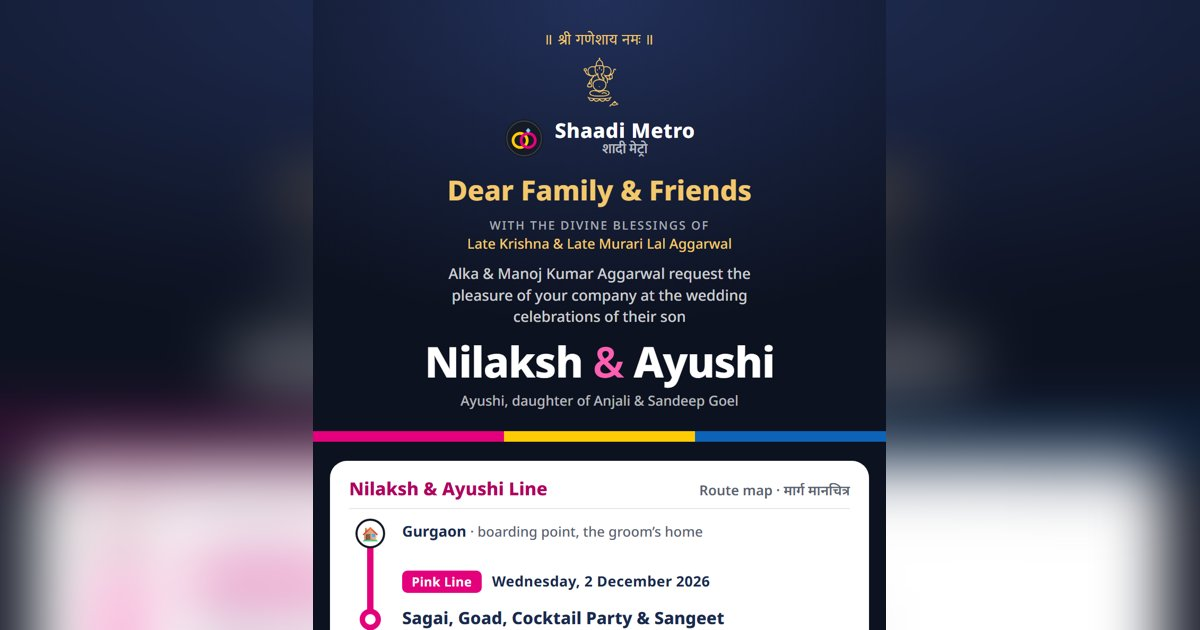
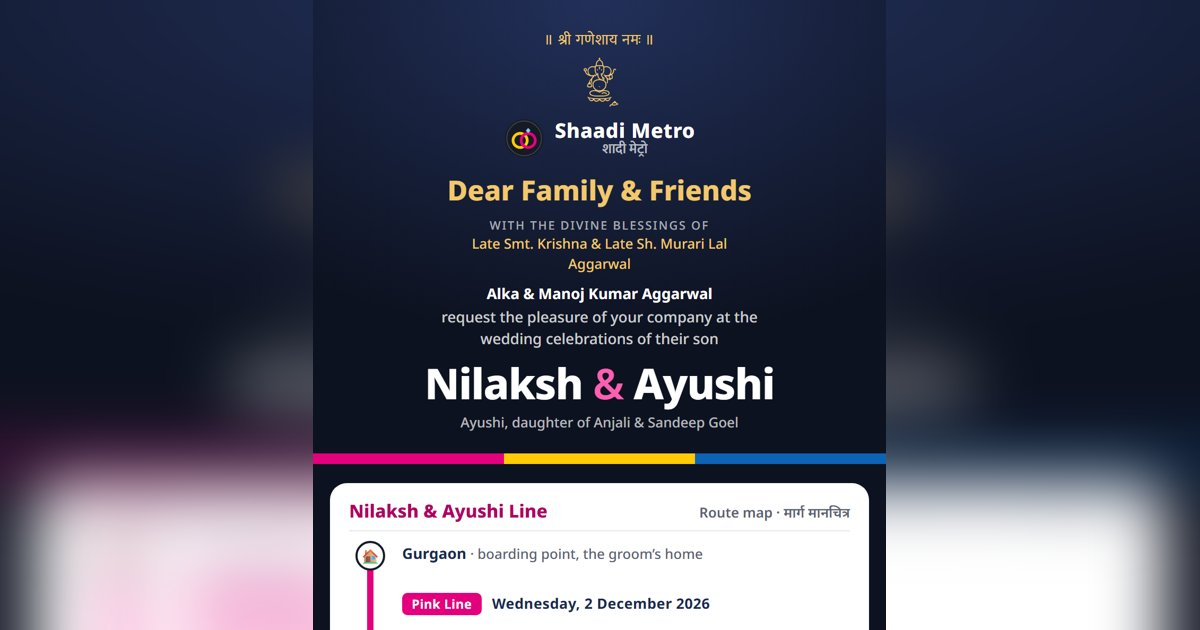
Add Hindi card (patrika)

Changed region(s): [[0.0, 0.3619, 0.9867, 1.0]]

diff --git a/data.js b/data.js
@@ -7,32 +7,32 @@ window.INVITE_LOCKED = {
  "salt": "nilaksh-ayushi/v1/",
  "boxes": [
   {
-   "iv": "AjEYRPLG67MxQ4hd",
[1 lines of base64/hex data omitted]
+   "iv": "Pv/sz3zEu7KYMtNa",
[1 lines of base64/hex data omitted]
   },
   {
-   "iv": "zLSYlUw1r5R7BfIA",
[1 lines of base64/hex data omitted]
+   "iv": "jj01mKISIpt8KPBZ",
[1 lines of base64/hex data omitted]
   },
   {
-   "iv": "qdtOhOFk423TJAWz",
[1 lines of base64/hex data omitted]
+   "iv": "YXLzZ/59/08w85Zr",
[1 lines of base64/hex data omitted]
   },
   {
-   "iv": "p8wsyf9G6BLAtV76",
[1 lines of base64/hex data omitted]
+   "iv": "Nr2egnKnHhRR5Pr/",
[1 lines of base64/hex data omitted]
   },
   {
-   "iv": "Ty3jakn5VfRUb+j0",
[1 lines of base64/hex data omitted]
+   "iv": "NdCKERfAM0HEZ0AO",
[1 lines of base64/hex data omitted]
   },
   {
-   "iv": "ZrAYf//a/tEQbX3P",
[1 lines of base64/hex data omitted]
+   "iv": "TCAnxa3MU3eqAZ+K",
[1 lines of base64/hex data omitted]
   },
   {
-   "iv": "M2tRCrF6f04vjnBi",
[1 lines of base64/hex data omitted]
+   "iv": "mut4Rt+uk4D1cYdC",
[1 lines of base64/hex data omitted]
   }
  ]
 };

diff --git a/46a7779f-df44-48ce-9c27-7e7e5a7a9db2/index.html b/46a7779f-df44-48ce-9c27-7e7e5a7a9db2/index.html
@@ -101,7 +101,7 @@
       <div>
         <label class="field-label" for="variant">3 · E-card</label>
         <select id="variant"></select>
-        <p class="hint" style="margin-top:6px">Each group has its own e-card. Change this only to send a different one.</p>
+        <p class="hint" style="margin-top:6px">Each group has its own e-card. Change this only to send a different one. For guests who read Hindi more easily, pick <b>Hindi Card</b>: the card and the WhatsApp message switch to Hindi.</p>
       </div>
       <div style="display:grid;gap:8px">
         <span class="field-label">4 · Share</span>
@@ -151,7 +151,7 @@
    (PBKDF2-SHA256) by scripts/build_site.py. Nothing readable is published. */
 (function () {
   'use strict';
[2 lines of base64/hex data omitted]
   const b64 = s => Uint8Array.from(atob(s), c => c.charCodeAt(0));
   const store = {
     get: () => { try { return localStorage.getItem('studio.pw'); } catch (e) { return null; } },
@@ -245,7 +245,32 @@
     return S.base.split('?')[0].replace(/[^/]*$/, '') + (S.variant || g.variant) + '?' + q.toString().replace(/\+/g, '%20');
   }
 
+  // The Hindi card (patrika) gets a Hindi message too.
+  function messageHi(link) {
+    const g = group(), ctx = I.buildCtx({ code: g.code, guest: S.to.trim() });
+    const H = D.PEOPLE.hi, occ = ctx.occasion;
+    const lines = ctx.events.map(e => `• ${I.hindi.date(e.date, true)}, ${I.hindi.time(e)} · ${e.hi || e.name}`);
+    const what = {
+      wedding: 'के शुभ विवाह समारोह में', engagement: 'के सगाई एवं संगीत समारोह में', haldi: 'के हल्दी एवं भात समारोह में',
+      mehandi: 'के मेहंदी एवं गीत समारोह में', sunderkand: 'के शुभ विवाह से पूर्व श्री सुंदरकांड पाठ में',
+    }[occ.key];
+    return [
+      occ.key === 'sunderkand' ? '🙏 जय श्री राम!' : '🙏 जय श्री गणेश!',
+      '',
+      ctx.guest ? `आदरणीय ${ctx.guest},` : 'आदरणीय परिवारजन एवं मित्रगण,',
+      '',
+      `${H.family} आपको ${H.groom} संग ${H.bride} ${what} सादर आमंत्रित करता है।`,
+      '',
+      ...lines,
+      '',
+      link ? `अपना निमंत्रण पत्र खोलने के लिए नीचे दिए लिंक को छुएँ 👇\n${link}` : '(Add the hosted invite address in the studio to get the link.)',
+      '',
+      `सप्रेम,\n${H.hosts}`,
+    ].join('\n');
+  }
+
   function message(link) {
+    if ((S.variant || group().variant) === 'patrika') return messageHi(link);
     const g = group(), ctx = I.buildCtx({ code: g.code, guest: S.to.trim() });
     const P = D.PEOPLE, occ = ctx.occasion;
     const lines = ctx.events.map(e => `• ${e.dateShort}, ${e.time} · ${shortName(e)}`);
@@ -285,7 +310,7 @@
     $('wa').href = 'https://api.whatsapp.com/send?text=' + encodeURIComponent(msg);
     const cardUrl = ONLINE ? (link || 'about:blank') : query(localInvite);
     $('open').href = cardUrl;
-    $('png').href = `cards/group-${g.n}-${g.slug}.png`;
+    $('png').href = `cards/${(S.variant || g.variant) === 'patrika' ? 'hindi/' : ''}group-${g.n}-${g.slug}.png`;
     $('png').hidden = ONLINE;
 
     clearTimeout(reloadTimer);

diff --git a/variants/patrika.js b/variants/patrika.js
@@ -1,0 +1,110 @@
+/* Patrika — the Hindi card. Everything in Devanagari, large type, no game: for guests who find Roman script
+   hard to read. Works for every group (send with ?t=patrika or the /patrika page). Hindi wording comes from
+   the hi / noteHi / spotHi / dressHi fields in data.js; when one is missing the English text is shown. */
+(function () {
+  'use strict';
+  // What follows "<groom> संग <bride>" in the invitation sentence, per occasion (see occasionFor in core.js).
+  const LINE = {
+    wedding: 'के शुभ विवाह के पावन अवसर पर आपको सादर आमंत्रित करते हैं।',
+    engagement: 'की सगाई एवं संगीत संध्या में आपको सादर आमंत्रित करते हैं।',
+    haldi: 'के शुभ विवाह के उपलक्ष्य में हल्दी एवं भात की रस्मों में आपको सादर आमंत्रित करते हैं।',
+    mehandi: 'के शुभ विवाह के उपलक्ष्य में मेहंदी एवं गीत में आपको सादर आमंत्रित करते हैं।',
+    sunderkand: 'के शुभ विवाह से पूर्व, हनुमान जी के आशीर्वाद हेतु श्री सुंदरकांड पाठ में आपको सादर आमंत्रित करते हैं।',
+  };
+
+  // A marigold toran (garland) for the top edge of the card.
+  function toran() {
+    const n = 11, w = 540, step = w / n;
+    let s = '';
+    for (let i = 0; i < n; i++) {
+      const x = step * i + step / 2, drop = i % 2 ? 34 : 50;
+      s += `<path d="M${x - step / 2} 6 Q${x} 26 ${x + step / 2} 6" class="pk-rope"/>`;
+      s += `<line x1="${x}" y1="16" x2="${x}" y2="${drop - 8}" class="pk-rope"/>`;
+      s += `<circle cx="${x}" cy="${drop - 10}" r="5.5" class="pk-mg2"/><circle cx="${x}" cy="${drop}" r="7.5" class="pk-mg${i % 2 ? 1 : 3}"/>`;
+      s += `<path d="M${x - 9} ${drop + 5} q9 12 18 0 q-9 4 -18 0Z" class="pk-leaf"/>`;
+    }
+    return `<svg class="pk-toran" viewBox="0 0 ${w} 66" preserveAspectRatio="none" aria-hidden="true">${s}</svg>`;
+  }
+
+  Invite.register('patrika', {
+    render(root, ctx) {
+      const esc = ctx.esc, P = ctx.P, H = P.hi || {}, T = ctx.T;
+      const hi = (k) => esc(H[k] || P[k]);
+      const isSk = ctx.occasion.key === 'sunderkand';
+      document.documentElement.lang = 'hi';
+      if (ctx.guest) document.title = `${H.groom || P.groom} संग ${H.bride || P.bride} · ${ctx.guest} के लिए`;
+
+      const days = ctx.days.map(d => `
+        <section class="pk-day pk-in">
+          <h3 class="pk-date">${esc(Invite.hindi.date(d.date))}</h3>
+          ${d.events.map(e => `
+            <div class="pk-ev">
+              <p class="pk-ev-name">${esc(e.hi || e.name)}</p>
+              <p class="pk-ev-time"><span aria-hidden="true">🕰</span> ${esc(Invite.hindi.time(e))}</p>
+              ${e.note ? `<p class="pk-ev-note">${esc(e.noteHi || e.note)}</p>` : ''}
+              <p class="pk-ev-place"><span aria-hidden="true">📍</span> ${esc(Invite.hindi.place(e))}</p>
+              ${e.dress ? `<p class="pk-ev-note">वेशभूषा: ${esc(e.dressHi || e.dress)}</p>` : ''}
+              ${ctx.isStatic ? '' : ctx.directionsHTML(e, 'रास्ता देखें (नक्शा)')}
+            </div>`).join('')}
+        </section>`).join('');
+
+      root.innerHTML = `
+        <div class="pk-root${ctx.isStatic || ctx.reducedMotion ? ' is-still' : ''}">
+          ${toran()}
+          <article class="pk-card">
+            <span class="pk-corner pk-tl"></span><span class="pk-corner pk-tr"></span>
+            <span class="pk-corner pk-bl"></span><span class="pk-corner pk-br"></span>
+
+            <div class="pk-in">${Invite.ganeshBlockHTML({ size: 64, stroke: 2.2 })}</div>
+            <p class="pk-shloka pk-in" lang="sa">${esc(isSk ? T.sunderkand : T.ganesh).replace(/\n/g, '<br>')}</p>
+            ${isSk ? `<div class="pk-in pk-art">${Invite.art.hanuman({ size: 70, stroke: 2 })}</div>` : ''}
+
+            <div class="pk-rule pk-in" aria-hidden="true"><span>❁</span></div>
+
+            <p class="pk-kicker pk-in">सादर आमंत्रण</p>
+            <p class="pk-greet pk-in">${ctx.guest ? esc(ctx.guest) : 'प्रिय परिवारजन एवं मित्रगण'}</p>
+            <h1 class="pk-title pk-in">${esc(ctx.occasion.titleHi)}</h1>
+
+            <div class="pk-invite pk-in">
+              <p class="pk-bless">${hi('blessings')}<br><span>के आशीर्वाद से</span></p>
+              <p class="pk-hosts">${hi('groomParents')}</p>
+              <p class="pk-lead">अपने सुपुत्र</p>
+              <h2 class="pk-couple">
+                <span>चि. ${hi('groom')}</span>
+                <em>संग</em>
+                <span>सौ.कां. ${hi('bride')}</span>
+              </h2>
+              <p class="pk-bride">सुपुत्री ${hi('brideParents')}</p>
+              <p class="pk-line">${esc(LINE[ctx.occasion.key])}</p>
+            </div>
+
+            <div class="pk-rule pk-in" aria-hidden="true"><span>❁</span></div>
+            <p class="pk-kicker pk-in">कार्यक्रम</p>
+            ${days}
+            ${ctx.isStatic ? '' : `<div class="pk-actions pk-in">${ctx.calendarButtonHTML('कैलेंडर में जोड़ें')}</div>`}
+
+            <footer class="pk-foot pk-in">
+              <p class="pk-foot-k">स्वागतोत्सुक</p>
+              <p class="pk-foot-hosts">${hi('hosts')}</p>
+              <p class="pk-foot-addr">${hi('address')}</p>
+              <p class="pk-phones">${P.phones.map(p => `<a class="pk-phone" href="tel:+91${esc(p)}"><span aria-hidden="true">📞</span> ${esc(p.replace(/^(\d{5})(\d{5})$/, '$1 $2'))}</a>`).join('')}</p>
+              <p class="pk-end">${isSk ? '॥ जय श्री राम ॥' : '॥ शुभमस्तु ॥'}</p>
+            </footer>
+          </article>
+        </div>`;
+
+      const done = () => ctx.ready();
+      if (document.fonts && document.fonts.ready) document.fonts.ready.then(done, done); else done();
+      if (ctx.isStatic || ctx.reducedMotion) return;
+
+      // Gentle fade-in of each block as it scrolls into view.
+      const items = root.querySelectorAll('.pk-in');
+      if (!('IntersectionObserver' in window)) { items.forEach(el => el.classList.add('is-on')); return; }
+      const io = new IntersectionObserver(list => list.forEach(x => {
+        if (x.isIntersecting) { x.target.classList.add('is-on'); io.unobserve(x.target); }
+      }), { rootMargin: '0px 0px -8% 0px' });
+      items.forEach(el => io.observe(el));
+      root.addEventListener('click', e => { if (e.target.closest('.inv-dir')) ctx.sound.play('tap'); });
+    },
+  });
+})();

diff --git a/variants/patrika.css b/variants/patrika.css
@@ -1,0 +1,102 @@
+@import url('https://fonts.googleapis.com/css2?family=Tiro+Devanagari+Hindi&family=Mukta:wght@500;600;700&display=swap');
+
+/* Patrika — Hindi card: ivory paper, maroon ink, marigold toran. Large type for easy reading.
+   Everything scoped to html.v-patrika / .pk-*. */
+html.v-patrika {
+  --pk-paper: #fff8ea;
+  --pk-ink: #3b1410;
+  --pk-maroon: #8e1b26;
+  --pk-saffron: #d86a10;
+  --pk-gold: #b8862b;
+  --pk-muted: #6d4a3c;
+  --pk-display: 'Tiro Devanagari Hindi', 'Noto Serif Devanagari', serif;
+  --pk-body: 'Mukta', 'Nirmala UI', 'Mangal', sans-serif;
+  --btn-bg: var(--pk-maroon);
+  --btn-ink: #fff;
+  --sum-accent: var(--pk-maroon);
+  background: #5c1018;
+}
+html.v-patrika body {
+  background:
+    radial-gradient(circle at 50% 0, rgba(255, 170, 60, .22), transparent 60%),
+    repeating-linear-gradient(45deg, rgba(255, 255, 255, .025) 0 2px, transparent 2px 14px),
+    #5c1018;
+  color: var(--pk-ink);
+}
+html.v-patrika .inv-sound { background: rgba(60, 10, 14, .55); }
+
+.pk-root { position: relative; padding: 0 14px 28px; font: 500 18px/1.55 var(--pk-body); }
+.pk-toran { display: block; width: calc(100% + 28px); height: 66px; margin: 0 -14px -30px; position: relative; z-index: 2; }
+.pk-rope { stroke: #2f6b2a; stroke-width: 2; fill: none; }
+.pk-mg1 { fill: #f39c12; } .pk-mg2 { fill: #c0392b; } .pk-mg3 { fill: #f7c331; }
+.pk-leaf { fill: #3f8a36; }
+
+.pk-card {
+  position: relative; background: var(--pk-paper); color: var(--pk-ink);
+  border-radius: 6px; padding: 52px 22px 30px; text-align: center;
+  box-shadow: 0 0 0 6px #fff8ea, 0 0 0 8px var(--pk-gold), 0 18px 40px -12px rgba(0, 0, 0, .55);
+  outline: 2px solid var(--pk-maroon); outline-offset: -12px;
+}
+.pk-corner { position: absolute; width: 34px; height: 34px; border: 3px solid var(--pk-saffron); }
+.pk-corner::after { content: ''; position: absolute; width: 9px; height: 9px; background: var(--pk-maroon); transform: rotate(45deg); }
+.pk-tl { top: 20px; left: 20px; border-right: 0; border-bottom: 0; border-top-left-radius: 14px; }
+.pk-tr { top: 20px; right: 20px; border-left: 0; border-bottom: 0; border-top-right-radius: 14px; }
+.pk-bl { bottom: 20px; left: 20px; border-right: 0; border-top: 0; border-bottom-left-radius: 14px; }
+.pk-br { bottom: 20px; right: 20px; border-left: 0; border-top: 0; border-bottom-right-radius: 14px; }
+.pk-tl::after, .pk-tr::after { top: 6px; } .pk-bl::after, .pk-br::after { bottom: 6px; }
+.pk-tl::after, .pk-bl::after { left: 6px; } .pk-tr::after, .pk-br::after { right: 6px; }
+
+.pk-card p, .pk-card h1, .pk-card h2, .pk-card h3 { margin: 0; }
+.pk-card .inv-ganesh { color: var(--pk-maroon); }
+.pk-card .inv-ganesh p { font: 400 22px/1.4 var(--pk-display); color: var(--pk-saffron); }
+.pk-shloka { margin-top: 14px !important; font: 400 19px/1.75 var(--pk-display); color: var(--pk-maroon); }
+.pk-art { color: var(--pk-maroon); margin-top: 10px; }
+
+.pk-rule { display: flex; align-items: center; gap: 12px; margin: 22px 8px 18px; color: var(--pk-saffron); font-size: 20px; }
+.pk-rule::before, .pk-rule::after { content: ''; flex: 1; height: 2px; background: linear-gradient(90deg, transparent, var(--pk-gold)); }
+.pk-rule::after { background: linear-gradient(270deg, transparent, var(--pk-gold)); }
+
+.pk-kicker { font: 700 17px/1.4 var(--pk-body); color: var(--pk-saffron); letter-spacing: .04em; }
+.pk-greet { margin-top: 4px !important; font: 600 22px/1.4 var(--pk-body); color: var(--pk-ink); }
+.pk-title { margin-top: 10px !important; font: 400 46px/1.25 var(--pk-display); color: var(--pk-maroon); }
+
+.pk-invite { margin-top: 14px; display: grid; gap: 8px; }
+.pk-invite p { text-wrap: balance; }
+.pk-bless { font: 600 18px/1.6 var(--pk-body); color: var(--pk-maroon); }
+.pk-bless span, .pk-lead { font-weight: 500; color: var(--pk-muted); }
+.pk-hosts { margin-top: 6px !important; font: 700 21px/1.45 var(--pk-body); color: var(--pk-maroon); }
+.pk-couple { display: flex; flex-direction: column; align-items: center; margin: 4px 0 !important; font: 400 40px/1.3 var(--pk-display); color: var(--pk-maroon); }
+.pk-couple em { font: 500 20px/1.6 var(--pk-body); font-style: normal; color: var(--pk-saffron); }
+.pk-bride { font: 600 18px/1.5 var(--pk-body); color: var(--pk-muted); }
+.pk-line { margin-top: 6px !important; font: 500 19px/1.65 var(--pk-body); color: var(--pk-ink); text-wrap: balance; }
+
+.pk-day { margin-top: 14px; border-top: 2px dashed rgba(184, 134, 43, .45); padding-top: 14px; }
+.pk-date { display: inline-block; padding: 4px 16px; border-radius: 999px; background: var(--pk-maroon); color: #fff; font: 700 18px/1.5 var(--pk-body); }
+.pk-ev { margin: 14px 0 4px; display: grid; gap: 2px; justify-items: center; }
+.pk-ev + .pk-ev { border-top: 1px solid rgba(142, 27, 38, .12); padding-top: 14px; }
+.pk-ev-name { font: 400 28px/1.35 var(--pk-display); color: var(--pk-maroon); }
+.pk-ev-time { font: 700 20px/1.5 var(--pk-body); color: var(--pk-ink); }
+.pk-ev-note { font: 600 17px/1.5 var(--pk-body); color: var(--pk-saffron); }
+.pk-ev-place { font: 500 17.5px/1.5 var(--pk-body); color: var(--pk-muted); max-width: 32ch; text-wrap: balance; }
+.pk-ev .inv-dir { margin-top: 8px; font: 600 16px/1 var(--pk-body); padding: .75em 1.2em; }
+.pk-actions { margin-top: 20px; }
+.pk-actions .inv-btn { font: 600 17px/1 var(--pk-body); padding: .8em 1.4em; }
+
+.pk-foot { margin-top: 24px; border-top: 2px dashed rgba(184, 134, 43, .45); padding-top: 18px; display: grid; gap: 4px; }
+.pk-foot-k { font: 700 17px/1.4 var(--pk-body); color: var(--pk-saffron); }
+.pk-foot-hosts { font: 700 20px/1.5 var(--pk-body); color: var(--pk-maroon); }
+.pk-foot-addr { font: 500 16.5px/1.5 var(--pk-body); color: var(--pk-muted); max-width: 30ch; margin: 0 auto !important; text-wrap: balance; }
+.pk-phones { display: flex; flex-wrap: wrap; justify-content: center; gap: 10px; margin-top: 10px !important; }
+.pk-phone { display: inline-flex; align-items: center; gap: 6px; min-height: 44px; padding: 0 16px; border: 2px solid var(--pk-maroon); border-radius: 999px; color: var(--pk-maroon); text-decoration: none; font: 700 18px/1 var(--pk-body); white-space: nowrap; }
+.pk-end { margin-top: 14px !important; font: 400 22px/1.4 var(--pk-display); color: var(--pk-saffron); }
+
+/* Fade-in (live page only; the image card and reduced motion show everything at once). */
+.pk-root:not(.is-still) .pk-in { opacity: 0; transform: translateY(14px); transition: opacity .7s ease, transform .7s ease; }
+.pk-root:not(.is-still) .pk-in.is-on { opacity: 1; transform: none; }
+
+@media (max-width: 380px) {
+  .pk-card { padding: 48px 16px 28px; }
+  .pk-title { font-size: 40px; }
+  .pk-couple { font-size: 34px; }
+  .pk-ev-name { font-size: 25px; }
+}

diff --git a/core.js b/core.js
@@ -30,6 +30,7 @@
                       { heading: false } to omit the couple header, { footer: false } to omit the host footer.
      ctx.calendarButtonHTML(label?) one button that downloads an .ics with all the guest's events
      ctx.directionsHTML(ev, label?) an <a> to the venue's map
+     Invite.hindi.date(iso, short?) / .time(ev) / .place(ev)  Hindi date, time and place (data.js hi fields)
      Invite.art.ganesh({size, className, stroke}) / Invite.art.hanuman(...)  minimal line-art doodle SVG
                       (stroke = currentColor, so it takes the text colour). Invite.ganeshBlockHTML(opts) =
                       '॥ श्री गणेशाय नमः ॥' with the Ganesh doodle under it (class inv-ganesh).
@@ -279,6 +280,31 @@
     return `<div class="inv-ganesh"><p lang="hi">${esc(D.TEXT.ganeshShort)}</p>${art.ganesh(opts)}</div>`;
   }
 
+  /* ---------- Hindi wording (the patrika card and the studio's Hindi message) ---------- */
+  const DOW_HI = ['रविवार', 'सोमवार', 'मंगलवार', 'बुधवार', 'गुरुवार', 'शुक्रवार', 'शनिवार'];
+  const MON_HI = ['जनवरी', 'फ़रवरी', 'मार्च', 'अप्रैल', 'मई', 'जून', 'जुलाई', 'अगस्त', 'सितंबर', 'अक्टूबर', 'नवंबर', 'दिसंबर'];
+  const hindi = {
+    // 'शनिवार, 28 नवंबर 2026' (short: without the year)
+    date(iso, short) {
+      const [y, m, d] = iso.split('-').map(Number);
+      return `${DOW_HI[new Date(Date.UTC(y, m - 1, d)).getUTCDay()]}, ${d} ${MON_HI[m - 1]}${short ? '' : ' ' + y}`;
+    },
+    // 'सायं 7:00 बजे'; a phrase time (Vidaai) uses timeHi
+    time(ev) {
+      if (!ev.start) return ev.timeHi || ev.time;
+      const [h, m] = ev.start.split(':').map(Number);
+      const part = h < 12 ? 'प्रातः' : h < 16 ? 'दोपहर' : h < 20 ? 'सायं' : 'रात्रि';
+      return `${part} ${(h % 12) || 12}:${String(m).padStart(2, '0')} बजे`;
+    },
+    // Hindi placeFull for a decorated event
+    place(ev) {
+      const v = ev.venueInfo.hi;
+      if (!v) return ev.placeFull;
+      if (!ev.spot) return `${v.name}, ${v.area}`;
+      return `${ev.spotHi || ev.spot}, ${v.short}, ${v.area.split(',').pop().trim()}`;
+    },
+  };
+
   /* ---------- markup helpers ---------- */
   function directionsHTML(ev, label) {
     return `<a class="inv-btn inv-dir" href="${esc(ev.venueInfo.map)}" target="_blank" rel="noopener">${esc(label || 'Directions')}</a>`;
@@ -331,7 +357,7 @@
   /* ---------- public API ---------- */
   const registry = {};
   const Invite = {
-    data: D, esc, decorate, groupByDay, occasionFor, buildIcs, sound, art, ganeshBlockHTML,
+    data: D, esc, decorate, groupByDay, occasionFor, buildIcs, sound, art, ganeshBlockHTML, hindi,
     isStatic: false,
 
     register(id, impl) { registry[id] = impl; },

diff --git a/patrika.html b/patrika.html
@@ -1,0 +1,27 @@
+<!doctype html>
+<html lang="en">
+<head>
+<meta charset="utf-8">
+<meta name="viewport" content="width=device-width, initial-scale=1, viewport-fit=cover">
+<title>Nilaksh &amp; Ayushi</title>
+<meta name="description" content="With the blessings of Shri Ganesh, the Aggarwal family invites you to celebrate with Nilaksh &amp; Ayushi.">
+<meta property="og:title" content="Nilaksh &amp; Ayushi · You're invited">
+<meta property="og:description" content="Your invitation from the Aggarwal family · November–December 2026">
+<meta property="og:type" content="website">
+<meta property="og:image" content="https://nilaksh-ayushi.github.io/og/patrika.jpg">
+<meta property="og:image:type" content="image/jpeg">
+<meta property="og:image:width" content="1200">
+<meta property="og:image:height" content="630">
+<meta property="og:url" content="https://nilaksh-ayushi.github.io/patrika">
+<meta name="theme-color" content="#3a1d12">
+<link rel="preconnect" href="https://fonts.googleapis.com">
+<link rel="preconnect" href="https://fonts.gstatic.com" crossorigin>
+<link rel="stylesheet" href="https://fonts.googleapis.com/css2?family=Cormorant+Garamond:ital,wght@0,500;0,600;1,400&family=Poppins:wght@400;500;600&display=swap">
+<link rel="stylesheet" href="core.css">
+</head>
+<body>
+<main id="app"></main>
+<script src="data.js"></script>
+<script src="boot.js"></script>
+</body>
+</html>
